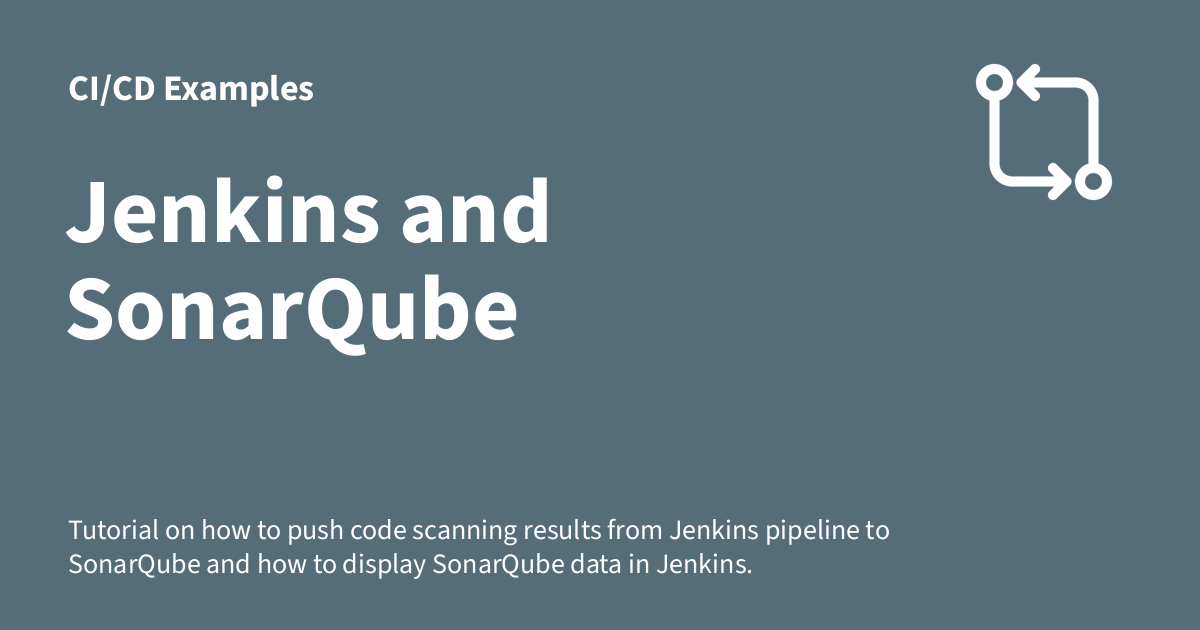
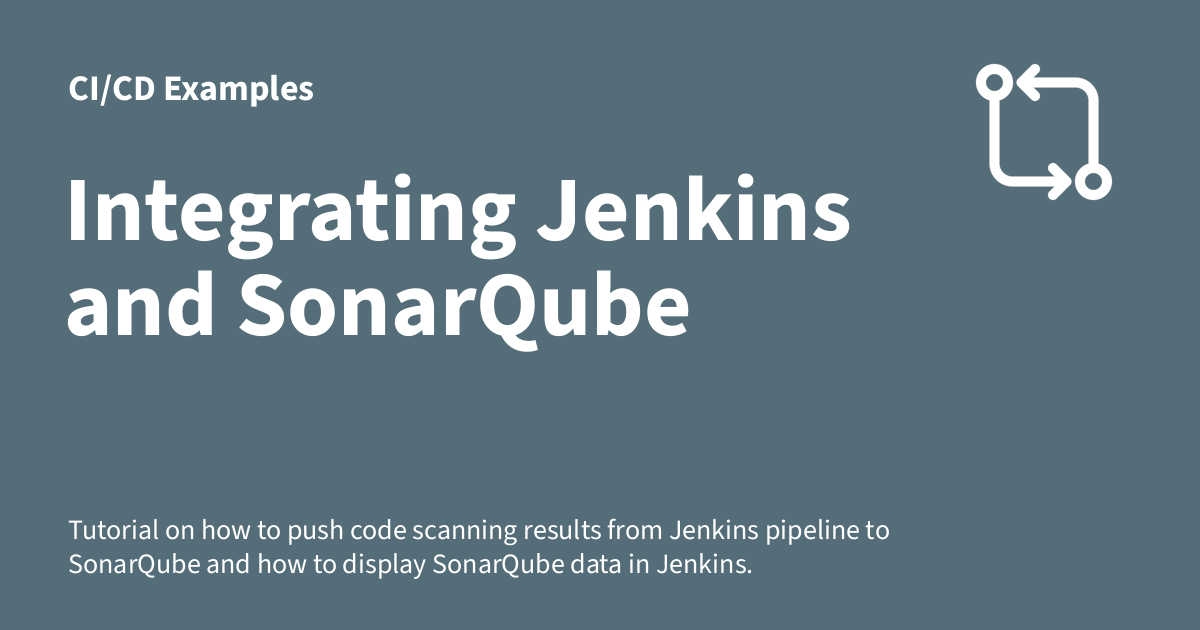
Deploying to gh-pages from  @ e834acc4a148aebc3bc4e1dd5b1ed6e818b491c3 🚀

Changed region(s): [[0.0617, 0.2714, 0.7092, 0.573]]

diff --git a/examples/jenkins/sonarqube-jenkins/index.html b/examples/jenkins/sonarqube-jenkins/index.html
@@ -22,7 +22,7 @@
     
     
       
-        <title>Jenkins and SonarQube - CI/CD Examples</title>
+        <title>Integrating Jenkins and SonarQube - CI/CD Examples</title>
       
     
     
@@ -59,7 +59,7 @@
       
         <meta  property="og:type"  content="website" >
       
-        <meta  property="og:title"  content="Jenkins and SonarQube - CI/CD Examples" >
+        <meta  property="og:title"  content="Integrating Jenkins and SonarQube - CI/CD Examples" >
       
         <meta  property="og:description"  content="Tutorial on how to push code scanning results from Jenkins pipeline to SonarQube and how to display SonarQube data in Jenkins." >
       
@@ -75,7 +75,7 @@
       
         <meta  name="twitter:card"  content="summary_large_image" >
       
-        <meta  name="twitter:title"  content="Jenkins and SonarQube - CI/CD Examples" >
+        <meta  name="twitter:title"  content="Integrating Jenkins and SonarQube - CI/CD Examples" >
       
         <meta  name="twitter:description"  content="Tutorial on how to push code scanning results from Jenkins pipeline to SonarQube and how to display SonarQube data in Jenkins." >
       
@@ -102,7 +102,7 @@
     <div data-md-component="skip">
       
         
-        <a href="#jenkins-and-sonarqube" class="md-skip">
+        <a href="#integrating-jenkins-and-sonarqube" class="md-skip">
           Skip to content
         </a>
       
@@ -149,7 +149,7 @@
         <div class="md-header__topic" data-md-component="header-topic">
           <span class="md-ellipsis">
             
-              Jenkins and SonarQube
+              Integrating Jenkins and SonarQube
             
           </span>
         </div>
@@ -598,7 +598,7 @@
           
   
   <span class="md-ellipsis">
-    Jenkins and SonarQube
+    Integrating Jenkins and SonarQube
   </span>
   
 
@@ -609,7 +609,7 @@
         
   
   <span class="md-ellipsis">
-    Jenkins and SonarQube
+    Integrating Jenkins and SonarQube
   </span>
   
 
@@ -739,7 +739,7 @@
   
 
 
-<h1 id="jenkins-and-sonarqube">Jenkins and SonarQube</h1>
+<h1 id="integrating-jenkins-and-sonarqube">Integrating Jenkins and SonarQube</h1>
 <p>This example uses the same Jenkins configuration as the <a href="../jenkins-host-docker/">Jenkins with access to hosts Docker engine</a> example. If you did any configuration in <a href="../jenkins-host-docker/">jenkins-host-docker</a> directory, sync the project names with <code>-p</code>/<code>--project-name</code> option or <code>COMPOSE_PROJECT_NAME</code> environment variable to use the same volumes. For example:</p>
 <div class="language-sh highlight"><pre><span></span><code><span id="__span-0-1"><a id="__codelineno-0-1" name="__codelineno-0-1" href="#__codelineno-0-1"></a><span class="c1"># Replace jenkins with jenkins-host-docker, if you used default project name in jenkins-host-docker directory.</span>
 </span><span id="__span-0-2"><a id="__codelineno-0-2" name="__codelineno-0-2" href="#__codelineno-0-2"></a>
@@ -750,49 +750,78 @@
 </span><span id="__span-0-7"><a id="__codelineno-0-7" name="__codelineno-0-7" href="#__codelineno-0-7"></a><span class="nb">export</span><span class="w"> </span><span class="nv">COMPOSE_PROJECT_NAME</span><span class="o">=</span>jenkins
 </span><span id="__span-0-8"><a id="__codelineno-0-8" name="__codelineno-0-8" href="#__codelineno-0-8"></a>docker<span class="w"> </span>compose<span class="w"> </span>up<span class="w"> </span>-d
 </span></code></pre></div>
+<p>In additions to <code>jenkins</code> service, we now define a <code>sonarqube</code> service as well in the <a href="docker-compose.yml">docker-compose.yml</a>:</p>
+<div class="language-yaml highlight"><span class="filename">docker-compose.yml</span><pre><span></span><code><span id="__span-1-1"><a id="__codelineno-1-1" name="__codelineno-1-1" href="#__codelineno-1-1"></a><span class="nt">version</span><span class="p">:</span><span class="w"> </span><span class="s">&quot;3&quot;</span>
+</span><span id="__span-1-2"><a id="__codelineno-1-2" name="__codelineno-1-2" href="#__codelineno-1-2"></a><span class="nt">services</span><span class="p">:</span>
+</span><span id="__span-1-3"><a id="__codelineno-1-3" name="__codelineno-1-3" href="#__codelineno-1-3"></a><span class="w">  </span><span class="nt">jenkins</span><span class="p">:</span>
+</span><span id="__span-1-4"><a id="__codelineno-1-4" name="__codelineno-1-4" href="#__codelineno-1-4"></a><span class="w">    </span><span class="nt">build</span><span class="p">:</span><span class="w"> </span><span class="l l-Scalar l-Scalar-Plain">../jenkins-host-docker/</span>
+</span><span id="__span-1-5"><a id="__codelineno-1-5" name="__codelineno-1-5" href="#__codelineno-1-5"></a><span class="w">    </span><span class="nt">ports</span><span class="p">:</span>
+</span><span id="__span-1-6"><a id="__codelineno-1-6" name="__codelineno-1-6" href="#__codelineno-1-6"></a><span class="w">    </span><span class="c1"># Web user interface</span>
+</span><span id="__span-1-7"><a id="__codelineno-1-7" name="__codelineno-1-7" href="#__codelineno-1-7"></a><span class="w">    </span><span class="p p-Indicator">-</span><span class="w"> </span><span class="l l-Scalar l-Scalar-Plain">8080:8080</span>
+</span><span id="__span-1-8"><a id="__codelineno-1-8" name="__codelineno-1-8" href="#__codelineno-1-8"></a><span class="w">    </span><span class="c1"># Java agents</span>
+</span><span id="__span-1-9"><a id="__codelineno-1-9" name="__codelineno-1-9" href="#__codelineno-1-9"></a><span class="w">    </span><span class="p p-Indicator">-</span><span class="w"> </span><span class="l l-Scalar l-Scalar-Plain">50000:50000</span>
+</span><span id="__span-1-10"><a id="__codelineno-1-10" name="__codelineno-1-10" href="#__codelineno-1-10"></a><span class="w">    </span><span class="nt">volumes</span><span class="p">:</span>
+</span><span id="__span-1-11"><a id="__codelineno-1-11" name="__codelineno-1-11" href="#__codelineno-1-11"></a><span class="w">    </span><span class="c1"># Persistent volume for the Jenkins data</span>
+</span><span id="__span-1-12"><a id="__codelineno-1-12" name="__codelineno-1-12" href="#__codelineno-1-12"></a><span class="w">    </span><span class="p p-Indicator">-</span><span class="w"> </span><span class="s">&quot;jenkins.data:/var/jenkins_home&quot;</span>
+</span><span id="__span-1-13"><a id="__codelineno-1-13" name="__codelineno-1-13" href="#__codelineno-1-13"></a><span class="w">    </span><span class="c1"># Host systems docker socket</span>
+</span><span id="__span-1-14"><a id="__codelineno-1-14" name="__codelineno-1-14" href="#__codelineno-1-14"></a><span class="w">    </span><span class="p p-Indicator">-</span><span class="w"> </span><span class="s">&quot;/var/run/docker.sock:/var/run/docker.sock&quot;</span>
+</span><span id="__span-1-15"><a id="__codelineno-1-15" name="__codelineno-1-15" href="#__codelineno-1-15"></a><span class="w">  </span><span class="nt">sonarqube</span><span class="p">:</span>
+</span><span id="__span-1-16"><a id="__codelineno-1-16" name="__codelineno-1-16" href="#__codelineno-1-16"></a><span class="w">    </span><span class="nt">image</span><span class="p">:</span><span class="w"> </span><span class="l l-Scalar l-Scalar-Plain">sonarqube:community</span>
+</span><span id="__span-1-17"><a id="__codelineno-1-17" name="__codelineno-1-17" href="#__codelineno-1-17"></a><span class="w">    </span><span class="nt">ports</span><span class="p">:</span>
+</span><span id="__span-1-18"><a id="__codelineno-1-18" name="__codelineno-1-18" href="#__codelineno-1-18"></a><span class="w">    </span><span class="c1"># Web user interface</span>
+</span><span id="__span-1-19"><a id="__codelineno-1-19" name="__codelineno-1-19" href="#__codelineno-1-19"></a><span class="w">    </span><span class="p p-Indicator">-</span><span class="w"> </span><span class="l l-Scalar l-Scalar-Plain">9000:9000</span>
+</span><span id="__span-1-20"><a id="__codelineno-1-20" name="__codelineno-1-20" href="#__codelineno-1-20"></a><span class="w">    </span><span class="nt">volumes</span><span class="p">:</span>
+</span><span id="__span-1-21"><a id="__codelineno-1-21" name="__codelineno-1-21" href="#__codelineno-1-21"></a><span class="w">    </span><span class="p p-Indicator">-</span><span class="w"> </span><span class="s">&quot;sonarqube.data:/opt/sonarqube/&quot;</span>
+</span><span id="__span-1-22"><a id="__codelineno-1-22" name="__codelineno-1-22" href="#__codelineno-1-22"></a>
+</span><span id="__span-1-23"><a id="__codelineno-1-23" name="__codelineno-1-23" href="#__codelineno-1-23"></a><span class="nt">volumes</span><span class="p">:</span>
+</span><span id="__span-1-24"><a id="__codelineno-1-24" name="__codelineno-1-24" href="#__codelineno-1-24"></a><span class="w">  </span><span class="nt">jenkins.data</span><span class="p">:</span>
+</span><span id="__span-1-25"><a id="__codelineno-1-25" name="__codelineno-1-25" href="#__codelineno-1-25"></a><span class="w">  </span><span class="nt">sonarqube.data</span><span class="p">:</span>
+</span></code></pre></div>
 <h2 id="gettings-started-with-sonarqube">Gettings started with SonarQube</h2>
 <p>To get started with SonarQube, access the <a href="http://localhost:9000">Web UI</a> and login with <code>admin:admin</code> credentials. Create a access token in <a href="http://localhost:9000/account/security/">My account &gt; Security</a> and store the token. Use this access token to authenticate to SonarQube from CI instead of the username and password combination.</p>
 <p>In order to test the SonarQube installation, run <code>sonar-scanner</code> in a code repository. This can be done, for example, by using the <a href="https://hub.docker.com/r/sonarsource/sonar-scanner-cli">sonarsource/sonar-scanner-cli</a> Docker image:</p>
-<div class="language-bash highlight"><pre><span></span><code><span id="__span-1-1"><a id="__codelineno-1-1" name="__codelineno-1-1" href="#__codelineno-1-1"></a><span class="c1"># This command should be run in the repository root directory</span>
-</span><span id="__span-1-2"><a id="__codelineno-1-2" name="__codelineno-1-2" href="#__codelineno-1-2"></a>docker<span class="w"> </span>run<span class="w"> </span><span class="se">\</span>
-</span><span id="__span-1-3"><a id="__codelineno-1-3" name="__codelineno-1-3" href="#__codelineno-1-3"></a><span class="w">  </span>--rm<span class="w"> </span><span class="se">\</span>
-</span><span id="__span-1-4"><a id="__codelineno-1-4" name="__codelineno-1-4" href="#__codelineno-1-4"></a><span class="w">  </span>--net<span class="w"> </span>host<span class="w"> </span><span class="se">\</span>
-</span><span id="__span-1-5"><a id="__codelineno-1-5" name="__codelineno-1-5" href="#__codelineno-1-5"></a><span class="w">  </span>-e<span class="w"> </span><span class="nv">SONAR_HOST_URL</span><span class="o">=</span><span class="s2">&quot;http://localhost:9000&quot;</span><span class="w"> </span><span class="se">\</span>
-</span><span id="__span-1-6"><a id="__codelineno-1-6" name="__codelineno-1-6" href="#__codelineno-1-6"></a><span class="w">  </span>-v<span class="w"> </span><span class="si">${</span><span class="nv">PWD</span><span class="si">}</span>:/usr/src<span class="w"> </span><span class="se">\</span>
-</span><span id="__span-1-7"><a id="__codelineno-1-7" name="__codelineno-1-7" href="#__codelineno-1-7"></a><span class="w">  </span>sonarsource/sonar-scanner-cli<span class="w"> </span><span class="se">\</span>
-</span><span id="__span-1-8"><a id="__codelineno-1-8" name="__codelineno-1-8" href="#__codelineno-1-8"></a><span class="w">  </span>-D<span class="s2">&quot;sonar.projectKey=</span><span class="k">$(</span>basename<span class="w"> </span><span class="si">${</span><span class="nv">PWD</span><span class="si">}</span><span class="k">)</span><span class="s2">&quot;</span><span class="w"> </span><span class="se">\</span>
-</span><span id="__span-1-9"><a id="__codelineno-1-9" name="__codelineno-1-9" href="#__codelineno-1-9"></a><span class="w">  </span>-D<span class="s2">&quot;sonar.login=</span><span class="si">${</span><span class="nv">your_sonar_access_token</span><span class="si">}</span><span class="s2">&quot;</span>
+<div class="language-bash highlight"><pre><span></span><code><span id="__span-2-1"><a id="__codelineno-2-1" name="__codelineno-2-1" href="#__codelineno-2-1"></a><span class="c1"># This command should be run in the repository root directory</span>
+</span><span id="__span-2-2"><a id="__codelineno-2-2" name="__codelineno-2-2" href="#__codelineno-2-2"></a>docker<span class="w"> </span>run<span class="w"> </span><span class="se">\</span>
+</span><span id="__span-2-3"><a id="__codelineno-2-3" name="__codelineno-2-3" href="#__codelineno-2-3"></a><span class="w">  </span>--rm<span class="w"> </span><span class="se">\</span>
+</span><span id="__span-2-4"><a id="__codelineno-2-4" name="__codelineno-2-4" href="#__codelineno-2-4"></a><span class="w">  </span>--net<span class="w"> </span>host<span class="w"> </span><span class="se">\</span>
+</span><span id="__span-2-5"><a id="__codelineno-2-5" name="__codelineno-2-5" href="#__codelineno-2-5"></a><span class="w">  </span>-e<span class="w"> </span><span class="nv">SONAR_HOST_URL</span><span class="o">=</span><span class="s2">&quot;http://localhost:9000&quot;</span><span class="w"> </span><span class="se">\</span>
+</span><span id="__span-2-6"><a id="__codelineno-2-6" name="__codelineno-2-6" href="#__codelineno-2-6"></a><span class="w">  </span>-v<span class="w"> </span><span class="si">${</span><span class="nv">PWD</span><span class="si">}</span>:/usr/src<span class="w"> </span><span class="se">\</span>
+</span><span id="__span-2-7"><a id="__codelineno-2-7" name="__codelineno-2-7" href="#__codelineno-2-7"></a><span class="w">  </span>sonarsource/sonar-scanner-cli<span class="w"> </span><span class="se">\</span>
+</span><span id="__span-2-8"><a id="__codelineno-2-8" name="__codelineno-2-8" href="#__codelineno-2-8"></a><span class="w">  </span>-D<span class="s2">&quot;sonar.projectKey=</span><span class="k">$(</span>basename<span class="w"> </span><span class="si">${</span><span class="nv">PWD</span><span class="si">}</span><span class="k">)</span><span class="s2">&quot;</span><span class="w"> </span><span class="se">\</span>
+</span><span id="__span-2-9"><a id="__codelineno-2-9" name="__codelineno-2-9" href="#__codelineno-2-9"></a><span class="w">  </span>-D<span class="s2">&quot;sonar.login=</span><span class="si">${</span><span class="nv">your_sonar_access_token</span><span class="si">}</span><span class="s2">&quot;</span>
 </span></code></pre></div>
 <p>If this succeeds, you are ready to move this analysis into Jenkins.</p>
 <h2 id="using-sonarqube-from-jenkins-pipeline">Using SonarQube from Jenkins pipeline</h2>
 <p>First, install SonarQube Scanner plugin to your Jenkins instance through <a href="http://localhost:8080/pluginManager/available">Manage Jenkins &gt; Manage plugins</a> menu. Configure SonarQube instance to SonarQube servers section of the <a href="http://localhost:8080/configure">Manage Jenkins &gt; Configure System</a> menu: Use <code>http://sonarqube:9000</code> as the server URL and create a secret text credential for the access token you stored earlier.</p>
 <p>After the SonarQube server is configured to Jenkins, sonar-scanner can be executed in a stage that uses the same <a href="https://hub.docker.com/r/sonarsource/sonar-scanner-cli">sonarsource/sonar-scanner-cli</a> Docker image that was used in the previous step as well. This can be done with a stage level Docker agent:</p>
-<div class="language-Groovy highlight"><pre><span></span><code><span id="__span-2-1"><a id="__codelineno-2-1" name="__codelineno-2-1" href="#__codelineno-2-1"></a><span class="n">stage</span><span class="o">(</span><span class="s1">&#39;Analyze&#39;</span><span class="o">)</span><span class="w"> </span><span class="o">{</span>
-</span><span id="__span-2-2"><a id="__codelineno-2-2" name="__codelineno-2-2" href="#__codelineno-2-2"></a><span class="w">  </span><span class="n">agent</span><span class="w"> </span><span class="o">{</span>
-</span><span id="__span-2-3"><a id="__codelineno-2-3" name="__codelineno-2-3" href="#__codelineno-2-3"></a><span class="w">    </span><span class="n">docker</span><span class="w"> </span><span class="o">{</span>
-</span><span id="__span-2-4"><a id="__codelineno-2-4" name="__codelineno-2-4" href="#__codelineno-2-4"></a><span class="w">      </span><span class="n">image</span><span class="w"> </span><span class="s1">&#39;sonarsource/sonar-scanner-cli&#39;</span>
-</span><span id="__span-2-5"><a id="__codelineno-2-5" name="__codelineno-2-5" href="#__codelineno-2-5"></a><span class="w">      </span><span class="c1">// In order to be able to use http://sonarqube:9000 we need to be in the</span>
-</span><span id="__span-2-6"><a id="__codelineno-2-6" name="__codelineno-2-6" href="#__codelineno-2-6"></a><span class="w">      </span><span class="c1">// same network as Jenkins and SonarQube are in.</span>
-</span><span id="__span-2-7"><a id="__codelineno-2-7" name="__codelineno-2-7" href="#__codelineno-2-7"></a><span class="w">      </span><span class="n">args</span><span class="w"> </span><span class="s1">&#39;--net jenkins_default&#39;</span>
-</span><span id="__span-2-8"><a id="__codelineno-2-8" name="__codelineno-2-8" href="#__codelineno-2-8"></a><span class="w">      </span><span class="c1">// To guarantee that the workspace contains the sources pulled in previous</span>
-</span><span id="__span-2-9"><a id="__codelineno-2-9" name="__codelineno-2-9" href="#__codelineno-2-9"></a><span class="w">      </span><span class="c1">// stage, we need to use the pipeline level workspace.</span>
-</span><span id="__span-2-10"><a id="__codelineno-2-10" name="__codelineno-2-10" href="#__codelineno-2-10"></a><span class="w">      </span><span class="n">reuseNode</span><span class="w"> </span><span class="kc">true</span>
-</span><span id="__span-2-11"><a id="__codelineno-2-11" name="__codelineno-2-11" href="#__codelineno-2-11"></a><span class="w">    </span><span class="o">}</span>
-</span><span id="__span-2-12"><a id="__codelineno-2-12" name="__codelineno-2-12" href="#__codelineno-2-12"></a><span class="w">  </span><span class="o">}</span>
-</span><span id="__span-2-13"><a id="__codelineno-2-13" name="__codelineno-2-13" href="#__codelineno-2-13"></a><span class="w">  </span><span class="n">steps</span><span class="w"> </span><span class="o">{</span>
-</span><span id="__span-2-14"><a id="__codelineno-2-14" name="__codelineno-2-14" href="#__codelineno-2-14"></a><span class="w">    </span><span class="c1">// The parameter must match the name you gave for the SonarQube server when</span>
-</span><span id="__span-2-15"><a id="__codelineno-2-15" name="__codelineno-2-15" href="#__codelineno-2-15"></a><span class="w">    </span><span class="c1">// configuring it.</span>
-</span><span id="__span-2-16"><a id="__codelineno-2-16" name="__codelineno-2-16" href="#__codelineno-2-16"></a><span class="w">    </span><span class="n">withSonarQubeEnv</span><span class="o">(</span><span class="s1">&#39;Sonar&#39;</span><span class="o">)</span><span class="w"> </span><span class="o">{</span>
-</span><span id="__span-2-17"><a id="__codelineno-2-17" name="__codelineno-2-17" href="#__codelineno-2-17"></a><span class="w">      </span><span class="c1">// Here, job name is used as the project key and current workspace as the</span>
-</span><span id="__span-2-18"><a id="__codelineno-2-18" name="__codelineno-2-18" href="#__codelineno-2-18"></a><span class="w">      </span><span class="c1">// sources location.</span>
-</span><span id="__span-2-19"><a id="__codelineno-2-19" name="__codelineno-2-19" href="#__codelineno-2-19"></a><span class="w">      </span><span class="n">sh</span><span class="w"> </span><span class="s2">&quot;&quot;&quot;</span>
-</span><span id="__span-2-20"><a id="__codelineno-2-20" name="__codelineno-2-20" href="#__codelineno-2-20"></a><span class="s2">        sonar-scanner \</span>
-</span><span id="__span-2-21"><a id="__codelineno-2-21" name="__codelineno-2-21" href="#__codelineno-2-21"></a><span class="s2">          -D&#39;sonar.projectKey=${JOB_NAME}&#39;\</span>
-</span><span id="__span-2-22"><a id="__codelineno-2-22" name="__codelineno-2-22" href="#__codelineno-2-22"></a><span class="s2">          -D&#39;sonar.sources=${WORKSPACE}&#39;</span>
-</span><span id="__span-2-23"><a id="__codelineno-2-23" name="__codelineno-2-23" href="#__codelineno-2-23"></a><span class="s2">      &quot;&quot;&quot;</span>
-</span><span id="__span-2-24"><a id="__codelineno-2-24" name="__codelineno-2-24" href="#__codelineno-2-24"></a><span class="w">    </span><span class="o">}</span>
-</span><span id="__span-2-25"><a id="__codelineno-2-25" name="__codelineno-2-25" href="#__codelineno-2-25"></a><span class="w">  </span><span class="o">}</span>
-</span><span id="__span-2-26"><a id="__codelineno-2-26" name="__codelineno-2-26" href="#__codelineno-2-26"></a><span class="o">}</span>
+<div class="language-Groovy highlight"><span class="filename">Jenkinsfile</span><pre><span></span><code><span id="__span-3-1"><a id="__codelineno-3-1" name="__codelineno-3-1" href="#__codelineno-3-1"></a><span class="n">pipeline</span><span class="w"> </span><span class="o">{</span>
+</span><span id="__span-3-2"><a id="__codelineno-3-2" name="__codelineno-3-2" href="#__codelineno-3-2"></a><span class="w">  </span><span class="n">agent</span><span class="w"> </span><span class="n">any</span>
+</span><span id="__span-3-3"><a id="__codelineno-3-3" name="__codelineno-3-3" href="#__codelineno-3-3"></a><span class="w">  </span><span class="n">stages</span><span class="w"> </span><span class="o">{</span>
+</span><span id="__span-3-4"><a id="__codelineno-3-4" name="__codelineno-3-4" href="#__codelineno-3-4"></a><span class="w">    </span><span class="n">stage</span><span class="o">(</span><span class="s1">&#39;Checkout&#39;</span><span class="o">)</span><span class="w"> </span><span class="o">{</span>
+</span><span id="__span-3-5"><a id="__codelineno-3-5" name="__codelineno-3-5" href="#__codelineno-3-5"></a><span class="w">      </span><span class="n">steps</span><span class="w"> </span><span class="o">{</span>
+</span><span id="__span-3-6"><a id="__codelineno-3-6" name="__codelineno-3-6" href="#__codelineno-3-6"></a><span class="w">        </span><span class="n">git</span><span class="w"> </span><span class="s2">&quot;${GIT_URL}&quot;</span>
+</span><span id="__span-3-7"><a id="__codelineno-3-7" name="__codelineno-3-7" href="#__codelineno-3-7"></a><span class="w">      </span><span class="o">}</span>
+</span><span id="__span-3-8"><a id="__codelineno-3-8" name="__codelineno-3-8" href="#__codelineno-3-8"></a><span class="w">    </span><span class="o">}</span>
+</span><span id="__span-3-9"><a id="__codelineno-3-9" name="__codelineno-3-9" href="#__codelineno-3-9"></a><span class="w">    </span><span class="n">stage</span><span class="o">(</span><span class="s1">&#39;Analyze&#39;</span><span class="o">)</span><span class="w"> </span><span class="o">{</span>
+</span><span id="__span-3-10"><a id="__codelineno-3-10" name="__codelineno-3-10" href="#__codelineno-3-10"></a><span class="w">      </span><span class="n">agent</span><span class="w"> </span><span class="o">{</span>
+</span><span id="__span-3-11"><a id="__codelineno-3-11" name="__codelineno-3-11" href="#__codelineno-3-11"></a><span class="w">        </span><span class="n">docker</span><span class="w"> </span><span class="o">{</span>
+</span><span id="__span-3-12"><a id="__codelineno-3-12" name="__codelineno-3-12" href="#__codelineno-3-12"></a><span class="w">          </span><span class="n">image</span><span class="w"> </span><span class="s1">&#39;sonarsource/sonar-scanner-cli&#39;</span>
+</span><span id="__span-3-13"><a id="__codelineno-3-13" name="__codelineno-3-13" href="#__codelineno-3-13"></a><span class="w">          </span><span class="c1">// In order to be able to use http://sonarqube:9000 we need to be in the same network as Jenkins and SonarQube are in.</span>
+</span><span id="__span-3-14"><a id="__codelineno-3-14" name="__codelineno-3-14" href="#__codelineno-3-14"></a><span class="w">          </span><span class="n">args</span><span class="w">  </span><span class="s1">&#39;--net jenkins_default&#39;</span>
+</span><span id="__span-3-15"><a id="__codelineno-3-15" name="__codelineno-3-15" href="#__codelineno-3-15"></a><span class="w">          </span><span class="c1">// To quarantee that the workspace contains the sources pulled in previous stage, we need to use the pipeline level workspace.</span>
+</span><span id="__span-3-16"><a id="__codelineno-3-16" name="__codelineno-3-16" href="#__codelineno-3-16"></a><span class="w">          </span><span class="n">reuseNode</span><span class="w"> </span><span class="kc">true</span>
+</span><span id="__span-3-17"><a id="__codelineno-3-17" name="__codelineno-3-17" href="#__codelineno-3-17"></a><span class="w">        </span><span class="o">}</span>
+</span><span id="__span-3-18"><a id="__codelineno-3-18" name="__codelineno-3-18" href="#__codelineno-3-18"></a><span class="w">      </span><span class="o">}</span>
+</span><span id="__span-3-19"><a id="__codelineno-3-19" name="__codelineno-3-19" href="#__codelineno-3-19"></a><span class="w">      </span><span class="n">steps</span><span class="w"> </span><span class="o">{</span>
+</span><span id="__span-3-20"><a id="__codelineno-3-20" name="__codelineno-3-20" href="#__codelineno-3-20"></a><span class="w">        </span><span class="c1">// The parameter must match the name you gave for the SonarQube server when configuring it.</span>
+</span><span id="__span-3-21"><a id="__codelineno-3-21" name="__codelineno-3-21" href="#__codelineno-3-21"></a><span class="w">        </span><span class="n">withSonarQubeEnv</span><span class="o">(</span><span class="s1">&#39;Sonar&#39;</span><span class="o">)</span><span class="w"> </span><span class="o">{</span>
+</span><span id="__span-3-22"><a id="__codelineno-3-22" name="__codelineno-3-22" href="#__codelineno-3-22"></a><span class="w">          </span><span class="c1">// Here, job name is used as the project key and current workspace as the sources location.</span>
+</span><span id="__span-3-23"><a id="__codelineno-3-23" name="__codelineno-3-23" href="#__codelineno-3-23"></a><span class="w">          </span><span class="n">sh</span><span class="w"> </span><span class="s2">&quot;sonar-scanner -D&#39;sonar.projectKey=${JOB_NAME}&#39; -D&#39;sonar.sources=${WORKSPACE}&#39;&quot;</span>
+</span><span id="__span-3-24"><a id="__codelineno-3-24" name="__codelineno-3-24" href="#__codelineno-3-24"></a><span class="w">        </span><span class="o">}</span>
+</span><span id="__span-3-25"><a id="__codelineno-3-25" name="__codelineno-3-25" href="#__codelineno-3-25"></a><span class="w">      </span><span class="o">}</span>
+</span><span id="__span-3-26"><a id="__codelineno-3-26" name="__codelineno-3-26" href="#__codelineno-3-26"></a><span class="w">    </span><span class="o">}</span>
+</span><span id="__span-3-27"><a id="__codelineno-3-27" name="__codelineno-3-27" href="#__codelineno-3-27"></a><span class="w">  </span><span class="o">}</span>
+</span><span id="__span-3-28"><a id="__codelineno-3-28" name="__codelineno-3-28" href="#__codelineno-3-28"></a><span class="o">}</span>
 </span></code></pre></div>
 <p>See <a href="Jenkinsfile">Jenkinsfile</a> for a example of a complete pipeline. If you try to execute this example pipeline replace <code>${GIT_URL}</code> with the URL to your git repository of choice.</p>
 <p>After the pipeline with sonar-scanner run has been executed, the job view in Jenkins should include the SonarQube quality gate status of the linked Sonar Project. Note that in this demo setup these links will not work as the Jenkins uses the <code>http://sonarqube:9000</code> URL for the SonarQube server which is likely not accessible from your browser. To see the projects in SonarQube, replace <code>http://sonarqube:9000</code> with <code>http://localhost:9000</code> in the URL.</p>
@@ -820,7 +849,7 @@
     <span class="md-icon" title="Last update">
       <svg xmlns="http://www.w3.org/2000/svg" viewBox="0 0 24 24"><path d="M21 13.1c-.1 0-.3.1-.4.2l-1 1 2.1 2.1 1-1c.2-.2.2-.6 0-.8l-1.3-1.3c-.1-.1-.2-.2-.4-.2m-1.9 1.8-6.1 6V23h2.1l6.1-6.1zM12.5 7v5.2l4 2.4-1 1L11 13V7zM11 21.9c-5.1-.5-9-4.8-9-9.9C2 6.5 6.5 2 12 2c5.3 0 9.6 4.1 10 9.3-.3-.1-.6-.2-1-.2s-.7.1-1 .2C19.6 7.2 16.2 4 12 4c-4.4 0-8 3.6-8 8 0 4.1 3.1 7.5 7.1 7.9l-.1.2z"/></svg>
     </span>
-    <span class="git-revision-date-localized-plugin git-revision-date-localized-plugin-date">October 13, 2024</span>
+    <span class="git-revision-date-localized-plugin git-revision-date-localized-plugin-date">October 14, 2024</span>
   </span>
 
     

diff --git a/404.html b/404.html
@@ -552,7 +552,7 @@
         
   
   <span class="md-ellipsis">
-    Jenkins and SonarQube
+    Integrating Jenkins and SonarQube
   </span>
   
 

diff --git a/assets/index.html b/assets/index.html
@@ -585,7 +585,7 @@
         
   
   <span class="md-ellipsis">
-    Jenkins and SonarQube
+    Integrating Jenkins and SonarQube
   </span>
   
 

diff --git a/examples/docker/docker-on-wsl/index.html b/examples/docker/docker-on-wsl/index.html
@@ -685,7 +685,7 @@
         
   
   <span class="md-ellipsis">
-    Jenkins and SonarQube
+    Integrating Jenkins and SonarQube
   </span>
   
 

diff --git a/examples/gitlab-ci/docker-hub-ratelimit/index.html b/examples/gitlab-ci/docker-hub-ratelimit/index.html
@@ -649,7 +649,7 @@
         
   
   <span class="md-ellipsis">
-    Jenkins and SonarQube
+    Integrating Jenkins and SonarQube
   </span>
   
 

diff --git a/examples/jenkins/ansible-kubernetes/index.html b/examples/jenkins/ansible-kubernetes/index.html
@@ -658,7 +658,7 @@
         
   
   <span class="md-ellipsis">
-    Jenkins and SonarQube
+    Integrating Jenkins and SonarQube
   </span>
   
 

diff --git a/examples/jenkins/build-status-pipelines/index.html b/examples/jenkins/build-status-pipelines/index.html
@@ -649,7 +649,7 @@
         
   
   <span class="md-ellipsis">
-    Jenkins and SonarQube
+    Integrating Jenkins and SonarQube
   </span>
   
 

diff --git a/examples/jenkins/jenkins-host-docker/index.html b/examples/jenkins/jenkins-host-docker/index.html
@@ -649,7 +649,7 @@
         
   
   <span class="md-ellipsis">
-    Jenkins and SonarQube
+    Integrating Jenkins and SonarQube
   </span>
   
 

diff --git a/examples/jenkins/parallel-robot-pipeline/index.html b/examples/jenkins/parallel-robot-pipeline/index.html
@@ -667,7 +667,7 @@
         
   
   <span class="md-ellipsis">
-    Jenkins and SonarQube
+    Integrating Jenkins and SonarQube
   </span>
   
 

diff --git a/index.html b/index.html
@@ -669,7 +669,7 @@
         
   
   <span class="md-ellipsis">
-    Jenkins and SonarQube
+    Integrating Jenkins and SonarQube
   </span>
   
 
